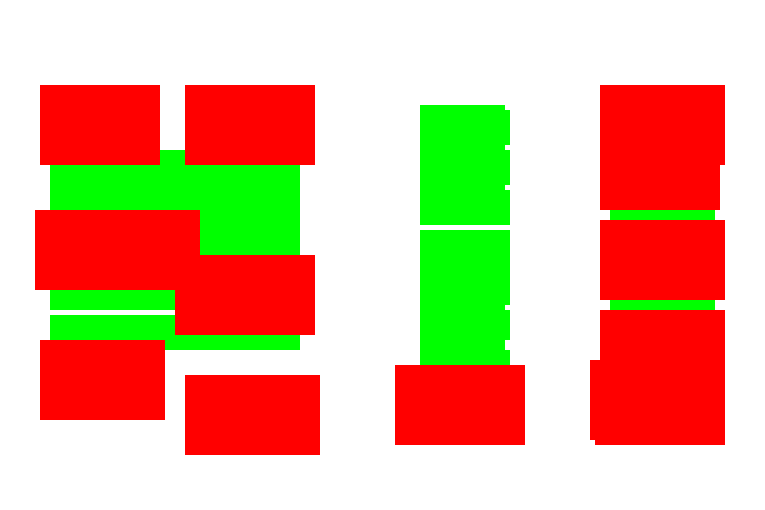
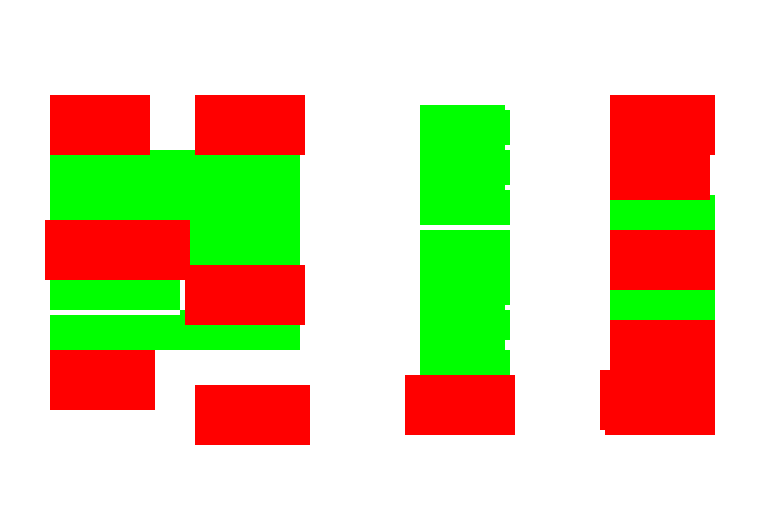
fix : mc controller issue

diff --git a/mpc_controller.py b/mpc_controller.py
@@ -1,5 +1,7 @@
-import cv2
 import numpy as np
+from scipy.optimize import minimize
+import copy
+import cv2
 
 class Environment:
     def __init__(self,obstacles):
@@ -88,32 +90,125 @@ class Environment:
         return rendered
 
 
-class Parking1:
-    def __init__(self, car_pos):
-        self.car_obstacle = self.make_car()
-        self.walls = [[70,i] for i in range(-5,90) ]+\
-                     [[30,i] for i in range(10,105)]+\
-                     [[i,10] for i in range(30,36) ]+\
-                     [[i,90] for i in range(70,76) ] #+ [[i,20] for i in range(-5,50)]
-        # self.walls = [0,100]
-        self.obs = np.array(self.walls)
-        self.cars = {1 : [[35,20]], 2 : [[65,20]], 3 : [[75,20]], 4 : [[95,20]],
-                     5 : [[35,32]], 6 : [[65,32]], 7 : [[75,32]], 8 : [[95,32]],
-                     9 : [[35,44]], 10: [[65,44]], 11: [[75,44]], 12: [[95,44]],
-                     13: [[35,56]], 14: [[65,56]], 15: [[75,56]], 16: [[95,56]],
-                     17: [[35,68]], 18: [[65,68]], 19: [[75,68]], 20: [[95,68]],
-                     21: [[35,80]], 22: [[65,80]], 23: [[75,80]], 24: [[95,80]]}
-        self.end = self.cars[car_pos][0]
-        self.cars.pop(car_pos)
+class Car_Dynamics:
+    def __init__(self, x_0, y_0, v_0, psi_0, length, dt):
+        self.dt = dt             # sampling time
+        self.L = length          # vehicle length
+        self.x = x_0
+        self.y = y_0
+        self.v = v_0
+        self.psi = psi_0
+        self.state = np.array([[self.x, self.y, self.v, self.psi]]).T
 
-    def generate_obstacles(self):
-        for i in self.cars.keys():
-            for j in range(len(self.cars[i])):
-                obstacle = self.car_obstacle + self.cars[i]
-                self.obs = np.append(self.obs, obstacle)
-        return self.end, np.array(self.obs).reshape(-1,2)
+    def move(self, accelerate, delta):
+        x_dot = self.v*np.cos(self.psi)
+        y_dot = self.v*np.sin(self.psi)
+        v_dot = accelerate
+        psi_dot = self.v*np.tan(delta)/self.L
+        return np.array([[x_dot, y_dot, v_dot, psi_dot]]).T
 
-    def make_car(self):
-        car_obstacle_x, car_obstacle_y = np.meshgrid(np.arange(-2,2), np.arange(-4,4))
-        car_obstacle = np.dstack([car_obstacle_x, car_obstacle_y]).reshape(-1,2)
-        return car_obstacle
+    def update_state(self, state_dot):
+        # self.u_k = command
+        # self.z_k = state
+        self.state = self.state + self.dt*state_dot
+        self.x = self.state[0,0]
+        self.y = self.state[1,0]
+        self.v = self.state[2,0]
+        self.psi = self.state[3,0]
+
+    
+class MPC_Controller:
+    def __init__(self):
+        self.horiz = None
+        self.R = np.diag([0.01, 0.01])                 # input cost matrix
+        self.Rd = np.diag([0.01, 1.0])                 # input difference cost matrix
+        self.Q = np.diag([1.0, 1.0])                   # state cost matrix
+        self.Qf = self.Q                               # state final matrix
+
+    def mpc_cost(self, u_k, my_car, points):
+        mpc_car = copy.copy(my_car)
+        u_k = u_k.reshape(self.horiz, 2).T
+        z_k = np.zeros((2, self.horiz+1))
+    
+        desired_state = points.T
+        cost = 0.0
+
+        for i in range(self.horiz):
+            state_dot = mpc_car.move(u_k[0,i], u_k[1,i])
+            mpc_car.update_state(state_dot)
+        
+            z_k[:,i] = [mpc_car.x, mpc_car.y]
+            cost += np.sum(self.R@(u_k[:,i]**2))
+            cost += np.sum(self.Q@((desired_state[:,i]-z_k[:,i])**2))
+            if i < (self.horiz-1):     
+                cost += np.sum(self.Rd@((u_k[:,i+1] - u_k[:,i])**2))
+        return cost
+
+    def optimize(self, my_car, points):
+        self.horiz = points.shape[0]
+        bnd = [(-5, 5),(np.deg2rad(-60), np.deg2rad(60))]*self.horiz
+        result = minimize(self.mpc_cost, args=(my_car, points), x0 = np.zeros((2*self.horiz)), method='SLSQP', bounds = bnd)
+        return result.x[0],  result.x[1]
+
+
+
+######################################################################################################################################################################
+
+class Linear_MPC_Controller:
+    def __init__(self):
+        self.horiz = None
+        self.R = np.diag([0.01, 0.01])                 # input cost matrix
+        self.Rd = np.diag([0.01, 1.0])                 # input difference cost matrix
+        self.Q = np.diag([1.0, 1.0])                   # state cost matrix
+        self.Qf = self.Q                               # state final matrix
+        self.dt=0.2   
+        self.L=4                          
+
+    def make_model(self, v, psi, delta):        
+        # matrices
+        # 4*4
+        A = np.array([[1, 0, self.dt*np.cos(psi)         , -self.dt*v*np.sin(psi)],
+                    [0, 1, self.dt*np.sin(psi)         , self.dt*v*np.cos(psi) ],
+                    [0, 0, 1                           , 0                     ],
+                    [0, 0, self.dt*np.tan(delta)/self.L, 1                     ]])
+        # 4*2 
+        B = np.array([[0      , 0                                  ],
+                    [0      , 0                                  ],
+                    [self.dt, 0                                  ],
+                    [0      , self.dt*v/(self.L*np.cos(delta)**2)]])
+
+        # 4*1
+        C = np.array([[self.dt*v* np.sin(psi)*psi                ],
+                    [-self.dt*v*np.cos(psi)*psi                ],
+                    [0                                         ],
+                    [-self.dt*v*delta/(self.L*np.cos(delta)**2)]])
+        
+        return A, B, C
+
+    def mpc_cost(self, u_k, my_car, points):
+        
+        u_k = u_k.reshape(self.horiz, 2).T
+        z_k = np.zeros((2, self.horiz+1))
+        desired_state = points.T
+        cost = 0.0
+        old_state = np.array([my_car.x, my_car.y, my_car.v, my_car.psi]).reshape(4,1)
+
+        for i in range(self.horiz):
+            delta = u_k[1,i]
+            A,B,C = self.make_model(my_car.v, my_car.psi, delta)
+            new_state = A@old_state + B@u_k + C
+        
+            z_k[:,i] = [new_state[0,0], new_state[1,0]]
+            cost += np.sum(self.R@(u_k[:,i]**2))
+            cost += np.sum(self.Q@((desired_state[:,i]-z_k[:,i])**2))
+            if i < (self.horiz-1):     
+                cost += np.sum(self.Rd@((u_k[:,i+1] - u_k[:,i])**2))
+            
+            old_state = new_state
+        return cost
+
+    def optimize(self, my_car, points):
+        self.horiz = points.shape[0]
+        bnd = [(-5, 5),(np.deg2rad(-60), np.deg2rad(60))]*self.horiz
+        result = minimize(self.mpc_cost, args=(my_car, points), x0 = np.zeros((2*self.horiz)), method='SLSQP', bounds = bnd)
+        return result.x[0],  result.x[1]

diff --git a/main.py b/main.py
@@ -11,7 +11,7 @@ from math import sqrt
 from scipy.interpolate import UnivariateSpline
 
 import scipy.ndimage as ndimage
-from mpc_controller import Environment
+from mpc_controller import Environment,MPC_Controller,Linear_MPC_Controller,Car_Dynamics
 
 
 class ParkingGridConverter:
@@ -57,6 +57,8 @@ class ParkingGridConverter:
         
         # MPC Controller state
         self.mpc_env = None  # MPC Environment for rendering
+        self.car_dynamics = None  # Car_Dynamics object from mpc_controller
+        self.mpc_controller = None  # MPC_Controller object
         self.car_x = 0.0  # Car x position (grid units)
         self.car_y = 0.0  # Car y position (grid units)
         self.car_psi = 0.0  # Car heading angle (radians)
@@ -65,6 +67,7 @@ class ParkingGridConverter:
         self.car_wheelbase = 2.5  # Wheelbase for bicycle model
         self.lookahead_distance = 3.0  # Pure pursuit lookahead
         self.max_steering_angle = np.radians(35)  # Max steering angle
+        self.mpc_horizon = 5  # MPC prediction horizon
         
         # Create UI first (needed for status updates)
         self.create_widgets()
@@ -1865,6 +1868,21 @@ class ParkingGridConverter:
             self.car_heading = np.degrees(self.car_psi)
         
         self.car_delta = 0.0  # Initial steering angle
+        self.car_velocity = 1.0  # Initial velocity
+        
+        # Initialize Car_Dynamics from mpc_controller
+        dt = 0.15  # Time step for simulation
+        self.car_dynamics = Car_Dynamics(
+            x_0=self.car_x,
+            y_0=self.car_y,
+            v_0=self.car_velocity,
+            psi_0=self.car_psi,
+            length=self.car_wheelbase,
+            dt=dt
+        )
+        
+        # Initialize MPC Controller
+        self.mpc_controller = Linear_MPC_Controller()  # Use Linear MPC for better performance
         
         # Initialize MPC Environment with obstacles from grid
         obstacles = self.get_grid_obstacles()
@@ -1880,7 +1898,7 @@ class ParkingGridConverter:
         # Update button states
         self.sim_start_btn.config(state=tk.DISABLED)
         
-        self.update_status("MPC Simulation started (fullscreen)...")
+        self.update_status(f"Linear MPC Controller initialized with horizon={self.mpc_horizon}. Starting simulation...")
         self.animate_car_mpc()
     
     def get_grid_obstacles(self):
@@ -2068,14 +2086,16 @@ class ParkingGridConverter:
             self.update_info(
                 f"MPC Simulation Complete!\n"
                 f"━━━━━━━━━━━━━━━━━━━━━━━━━━━━\n"
-                f"Controller: MPC with Pure Pursuit\n"
+                f"Controller: Linear MPC Controller\n"
                 f"Path type: smoothed\n"
                 f"Total waypoints: {len(self.simulation_path)}\n"
+                f"Horizon: {self.mpc_horizon} steps\n"
                 f"Start: {self.start_point}\n"
                 f"End: {self.end_point}\n"
+                f"Final velocity: {self.car_velocity:.2f} units/s\n"
                 f"Final heading: {self.car_heading:.1f}°\n\n"
                 f"The car successfully navigated\n"
-                f"using bicycle kinematic model!"
+                f"using MPC with bicycle kinematic model!"
             )
             return
         
@@ -2088,22 +2108,40 @@ class ParkingGridConverter:
                 min_dist = d
                 closest_idx = i
         
-        # Find lookahead point
-        lookahead_idx = closest_idx
-        accumulated_dist = 0.0
-        while lookahead_idx < len(self.simulation_path) - 1 and accumulated_dist < self.lookahead_distance:
-            p1 = self.simulation_path[lookahead_idx]
-            p2 = self.simulation_path[lookahead_idx + 1]
-            accumulated_dist += np.sqrt((p2[1] - p1[1])**2 + (p2[0] - p1[0])**2)
-            lookahead_idx += 1
-        
-        # Calculate steering angle using pure pursuit
-        self.car_delta = self.pure_pursuit_steering(lookahead_idx)
-        
-        # Update car kinematics
+        # Get simulation speed setting
         speed = int(self.sim_speed_spinbox.get())
-        self.car_velocity = 0.3 + speed * 0.03  # Scale velocity with speed setting
-        self.update_car_kinematics(dt=0.15)
+        
+        # Get reference points for MPC horizon
+        reference_points = []
+        for i in range(self.mpc_horizon):
+            idx = min(closest_idx + i, len(self.simulation_path) - 1)
+            ref_point = self.simulation_path[idx]
+            reference_points.append([ref_point[1], ref_point[0]])  # (x, y) format
+        
+        reference_points = np.array(reference_points)
+        
+        # Use MPC controller to get optimal control inputs
+        try:
+            acceleration, self.car_delta = self.mpc_controller.optimize(self.car_dynamics, reference_points)
+            
+            # Apply controls and update car state using Car_Dynamics
+            state_dot = self.car_dynamics.move(acceleration, self.car_delta)
+            self.car_dynamics.update_state(state_dot)
+            
+            # Update local variables from Car_Dynamics state
+            self.car_x = self.car_dynamics.x
+            self.car_y = self.car_dynamics.y
+            self.car_velocity = self.car_dynamics.v
+            self.car_psi = self.car_dynamics.psi
+            self.car_heading = np.degrees(self.car_psi)
+            
+        except Exception as e:
+            # Fallback to pure pursuit if MPC fails
+            print(f"MPC optimization failed: {e}, using fallback controller")
+            lookahead_idx = min(closest_idx + 3, len(self.simulation_path) - 1)
+            self.car_delta = self.pure_pursuit_steering(lookahead_idx)
+            self.car_velocity = 0.3 + speed * 0.03
+            self.update_car_kinematics(dt=0.15)
         
         # Draw the scene with car at MPC position
         current_pos = (self.car_y, self.car_x)  # (row, col) format
@@ -2114,7 +2152,7 @@ class ParkingGridConverter:
         
         # Update progress
         progress = (closest_idx / len(self.simulation_path)) * 100
-        self.update_status(f"MPC Simulating... {progress:.1f}% | Steering: {np.degrees(self.car_delta):.1f}°")
+        self.update_status(f"MPC Simulating... {progress:.1f}% | Velocity: {self.car_velocity:.2f} | Steering: {np.degrees(self.car_delta):.1f}°")
         
         # Schedule next frame
         self.root.after(int(delay), self.animate_car_mpc)
